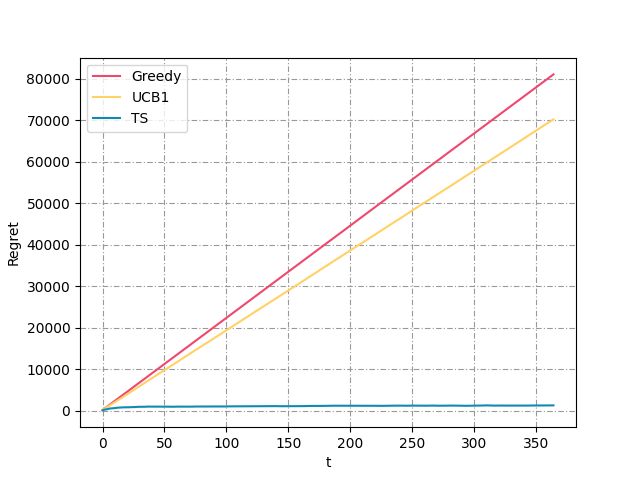
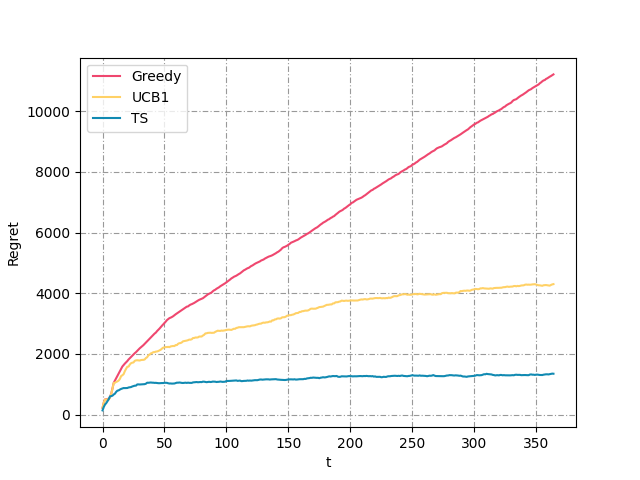
exp 3 working

diff --git a/learners.py b/learners.py
@@ -53,31 +53,46 @@ class Greedy_Learner(Learner):
         self.expected_rewards[pulled_arm] = (self.expected_rewards[pulled_arm] * (self.t - 1) + reward) / self.t
 
 class UCB1(Learner):
-    def __init__(self, n_arms, prices):
+    def __init__(self, n_arms, prices, alpha):
         super().__init__(n_arms)
+        self.alpha = alpha
         self.empirical_means = np.zeros(n_arms)
-        self.confidence = np.zeros(n_arms)
+        self.buyer = np.zeros(n_arms)
+        self.not_buyer = np.zeros(n_arms)
+        self.times_pulled = np.zeros(n_arms)
         self.prices = prices
+        self.t = 0
 
     def pull_arm(self):
-        # at start we try all the arms once
+        # All'inizio devo provare una volta tutti gli arm 
         if self.t < self.n_arms:
             arm = self.t
         else:
-            upper_bound = (self.empirical_means + self.confidence)*self.prices
+            confidence = self.alpha*(2*np.log(sum(self.buyer+self.not_buyer))/ (self.buyer+self.not_buyer))**0.5
+            upper_bound = (self.empirical_means + confidence)*self.prices
             arm = np.random.choice(np.where(upper_bound == upper_bound.max())[0])
         return arm
 
     def update(self, pulled_arm, reward):
         self.t += 1
-        np.append(self.rewards_per_arm[pulled_arm], reward)
-        np.append(self.collected_rewards, reward)
+        self.rewards_per_arm[pulled_arm] = np.append(self.rewards_per_arm[pulled_arm], reward)
+        self.collected_rewards = np.append(self.collected_rewards, reward)
         self.empirical_means[pulled_arm] = (self.empirical_means[pulled_arm]*(self.t) + reward) / self.t
 
         # I need to update for all the arms because i have t at the denominator
         for a in range(self.n_arms):
             number_pulled = max(1, len(self.rewards_per_arm[a]))
-            self.confidence[a] = np.sqrt(2*np.log(self.t) / number_pulled)
+            self.confidence[a] = (2*np.log(self.t)/ number_pulled)**0.5
+        np.append(self.rewards_per_arm[pulled_arm], reward)
+
+    def update_more(self, pulled_arm, reward, buyer, not_buyer):
+        self.t+=1
+
+        self.buyer[pulled_arm] += buyer
+        self.not_buyer[pulled_arm] += not_buyer
+        self.empirical_means = self.buyer/(self.buyer + self.not_buyer)
+
+        self.times_pulled[pulled_arm] += 1
 
 class TS_Learner(Learner):
 

diff --git a/experiments/experiment_3.py b/experiments/experiment_3.py
@@ -29,16 +29,12 @@ class Experiment3():
         self.uc_reward_per_experiments = []
         self.ts_reward_per_experiments = []
 
-<<<<<<< HEAD
         self.gr_regret_per_experiment = []
         self.uc_regret_per_experiment = []
         self.ts_regret_per_experiment = []
 
         self.opt_per_experiment = []
-=======
-        np.random.seed(123)
->>>>>>> 56378b640dbbf847fb9b1f1a409afd09c520f24d
-    
+
     def run(self):
         
         pg = PersonGenerator()
@@ -47,7 +43,7 @@ class Experiment3():
             env = Environment(n_arms=self.n_arms, probabilities=self.p, candidates=self.prices)
 
             gr_learner = Greedy_Learner(n_arms=self.n_arms)
-            uc_learner = UCB1(n_arms=self.n_arms, prices=self.prices)
+            uc_learner = UCB1(n_arms=self.n_arms, prices=self.prices, alpha=1)
             ts_learner = TS_Learner(n_arms=self.n_arms, candidates=self.prices)
 
             gr_regret = []
@@ -65,8 +61,10 @@ class Experiment3():
 
                 gr_pulled_arm = gr_learner.pull_arm()
                 uc_pulled_arm = uc_learner.pull_arm()
-                ts_pulled_arm = ts_learner.pull_arm()
-                
+                ts_pulled_arm, _ = ts_learner.pull_arm()
+
+                uc_buyers = 0
+                ts_buyers = 0
                 for _ in range(people):
                     gr_reward = env.round(gr_pulled_arm)
                     uc_reward = env.round(uc_pulled_arm)
@@ -75,10 +73,13 @@ class Experiment3():
                     gr_daily_reward += gr_reward
                     uc_daily_reward += uc_reward
                     ts_daily_reward += ts_reward
+
+                    if uc_reward > 0: uc_buyers += 1
+                    if ts_reward > 0: ts_buyers += 1
                 
-                    gr_learner.update(gr_pulled_arm, gr_reward)
-                    uc_learner.update(uc_pulled_arm, uc_reward)
-                    ts_learner.update(ts_pulled_arm, ts_reward) 
+                gr_learner.update(gr_pulled_arm, gr_reward)
+                uc_learner.update_more(uc_pulled_arm, uc_reward, uc_buyers, people - uc_buyers)
+                ts_learner.update_more(ts_pulled_arm, ts_reward, ts_buyers, people - ts_buyers) 
 
                 gr_regret.append(daily_opt - gr_daily_reward)
                 uc_regret.append(daily_opt - uc_daily_reward)
